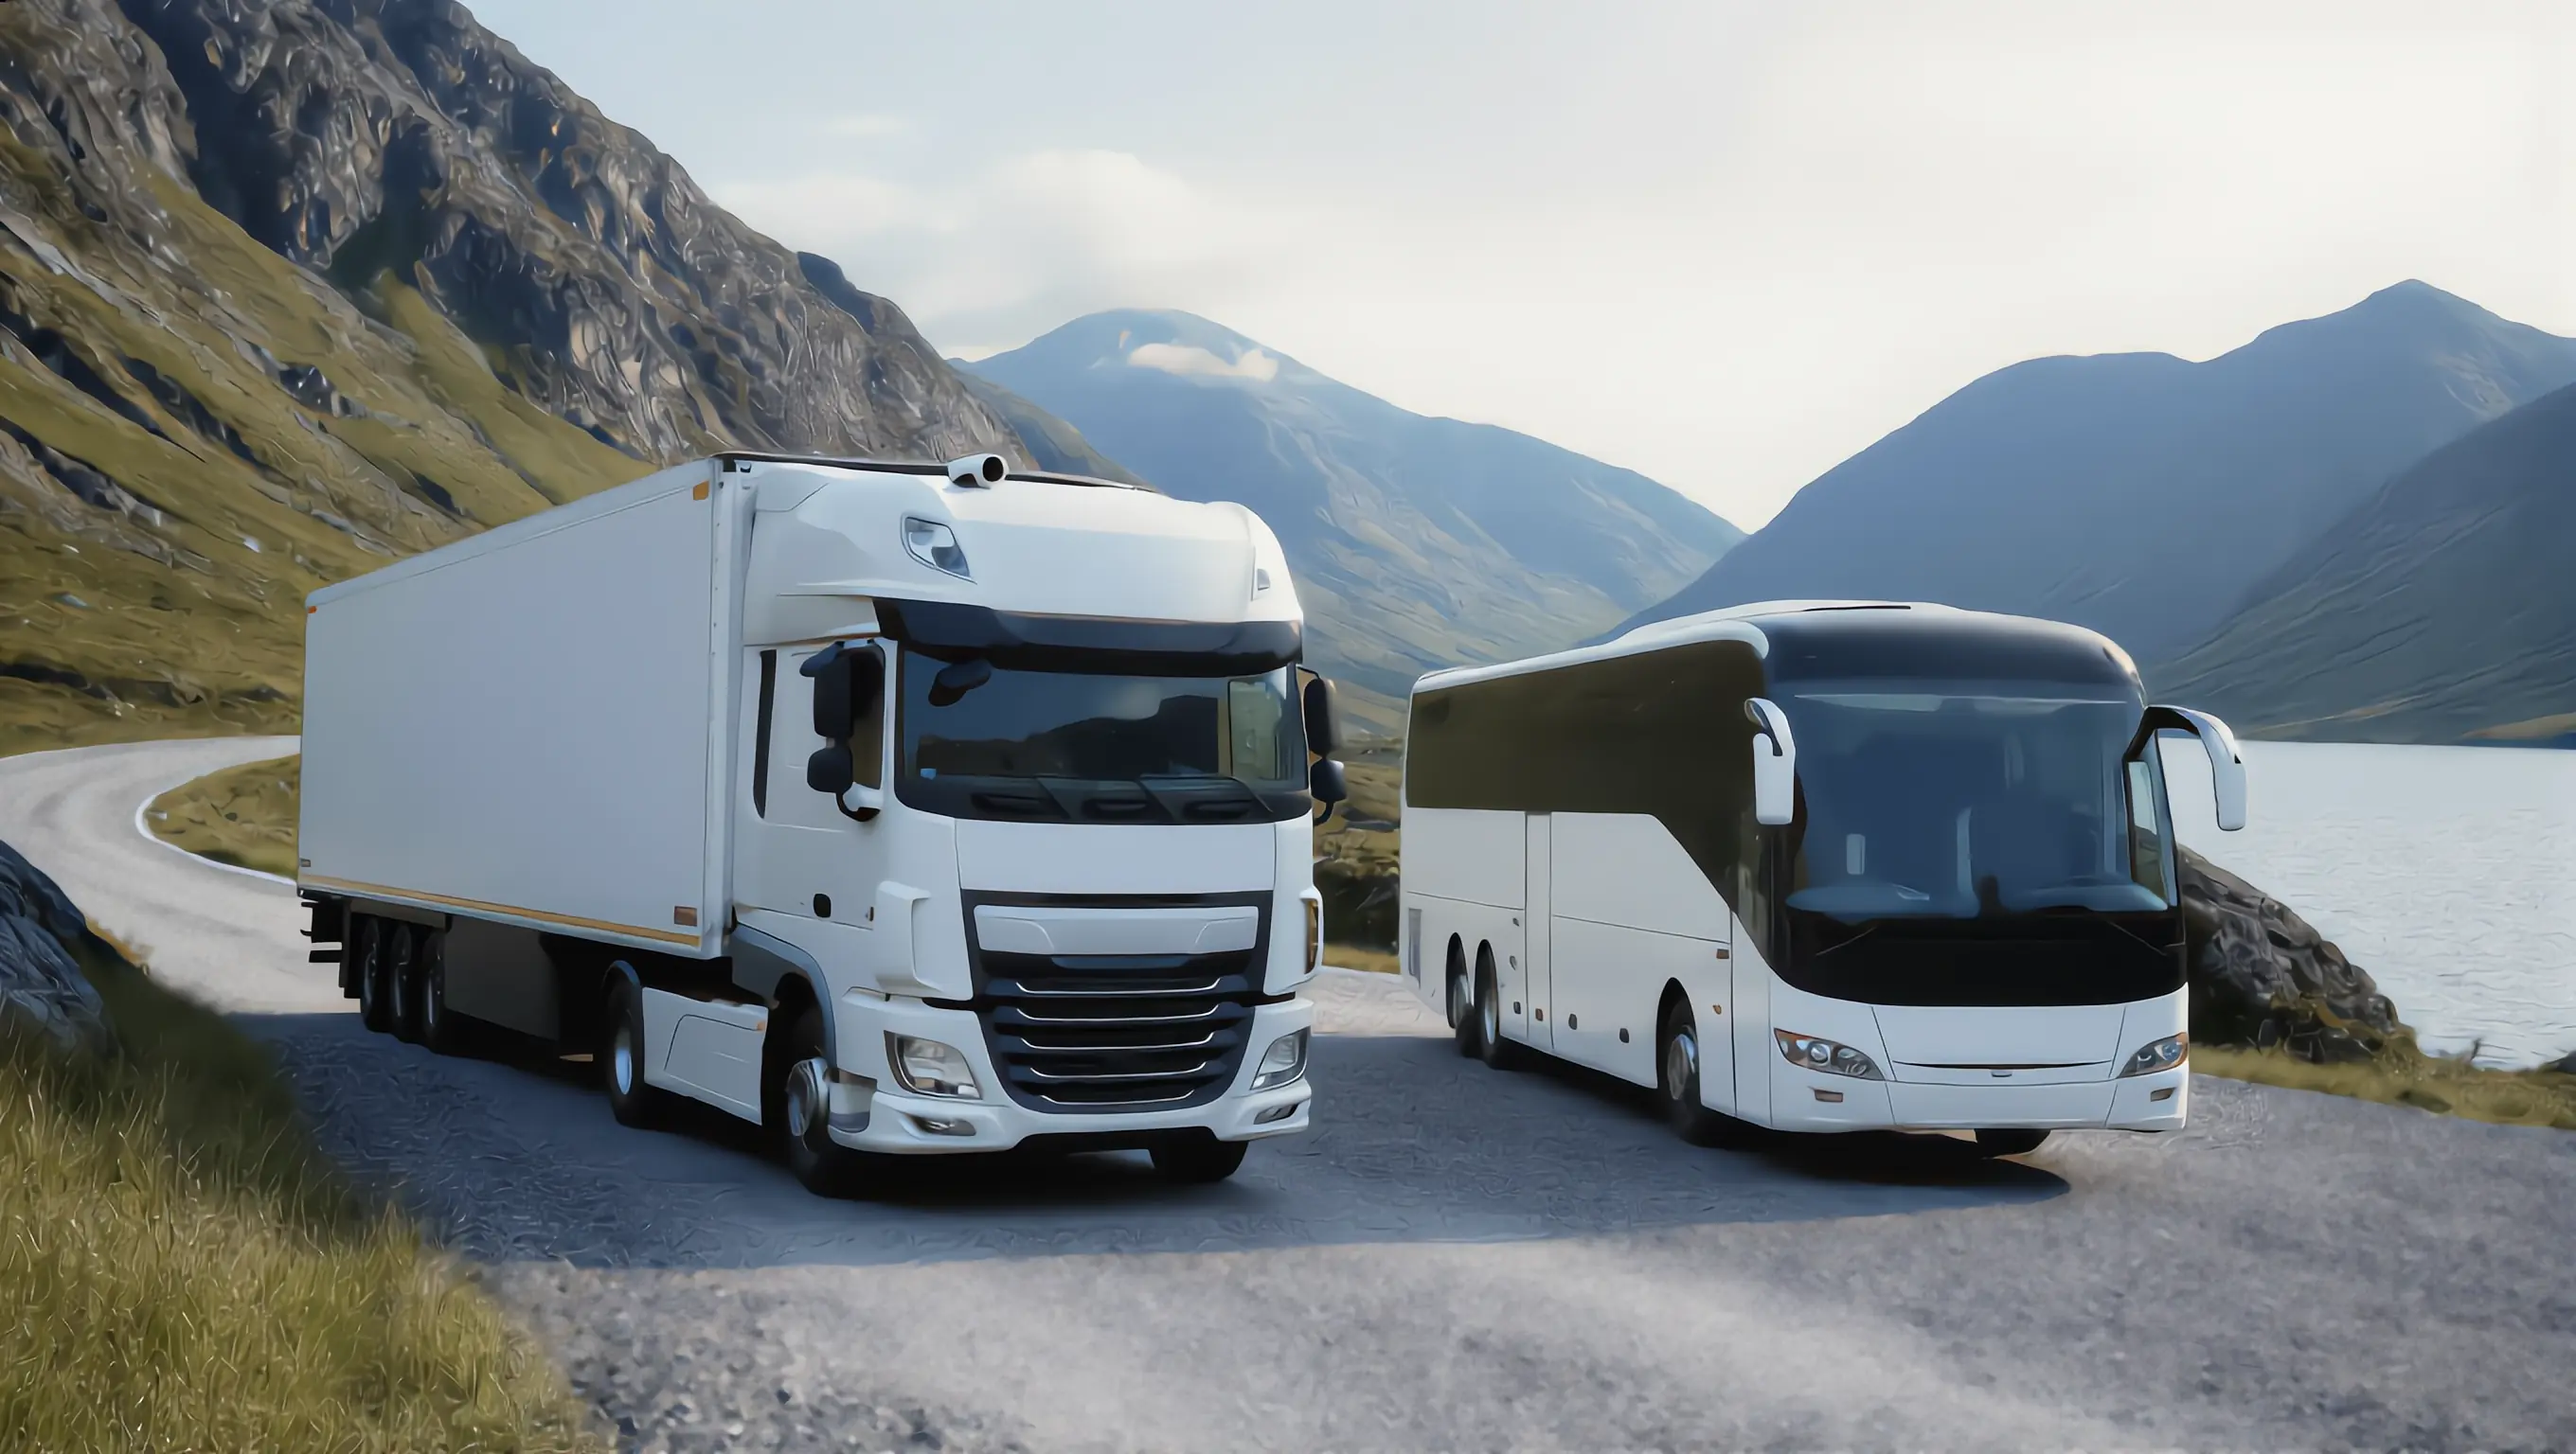
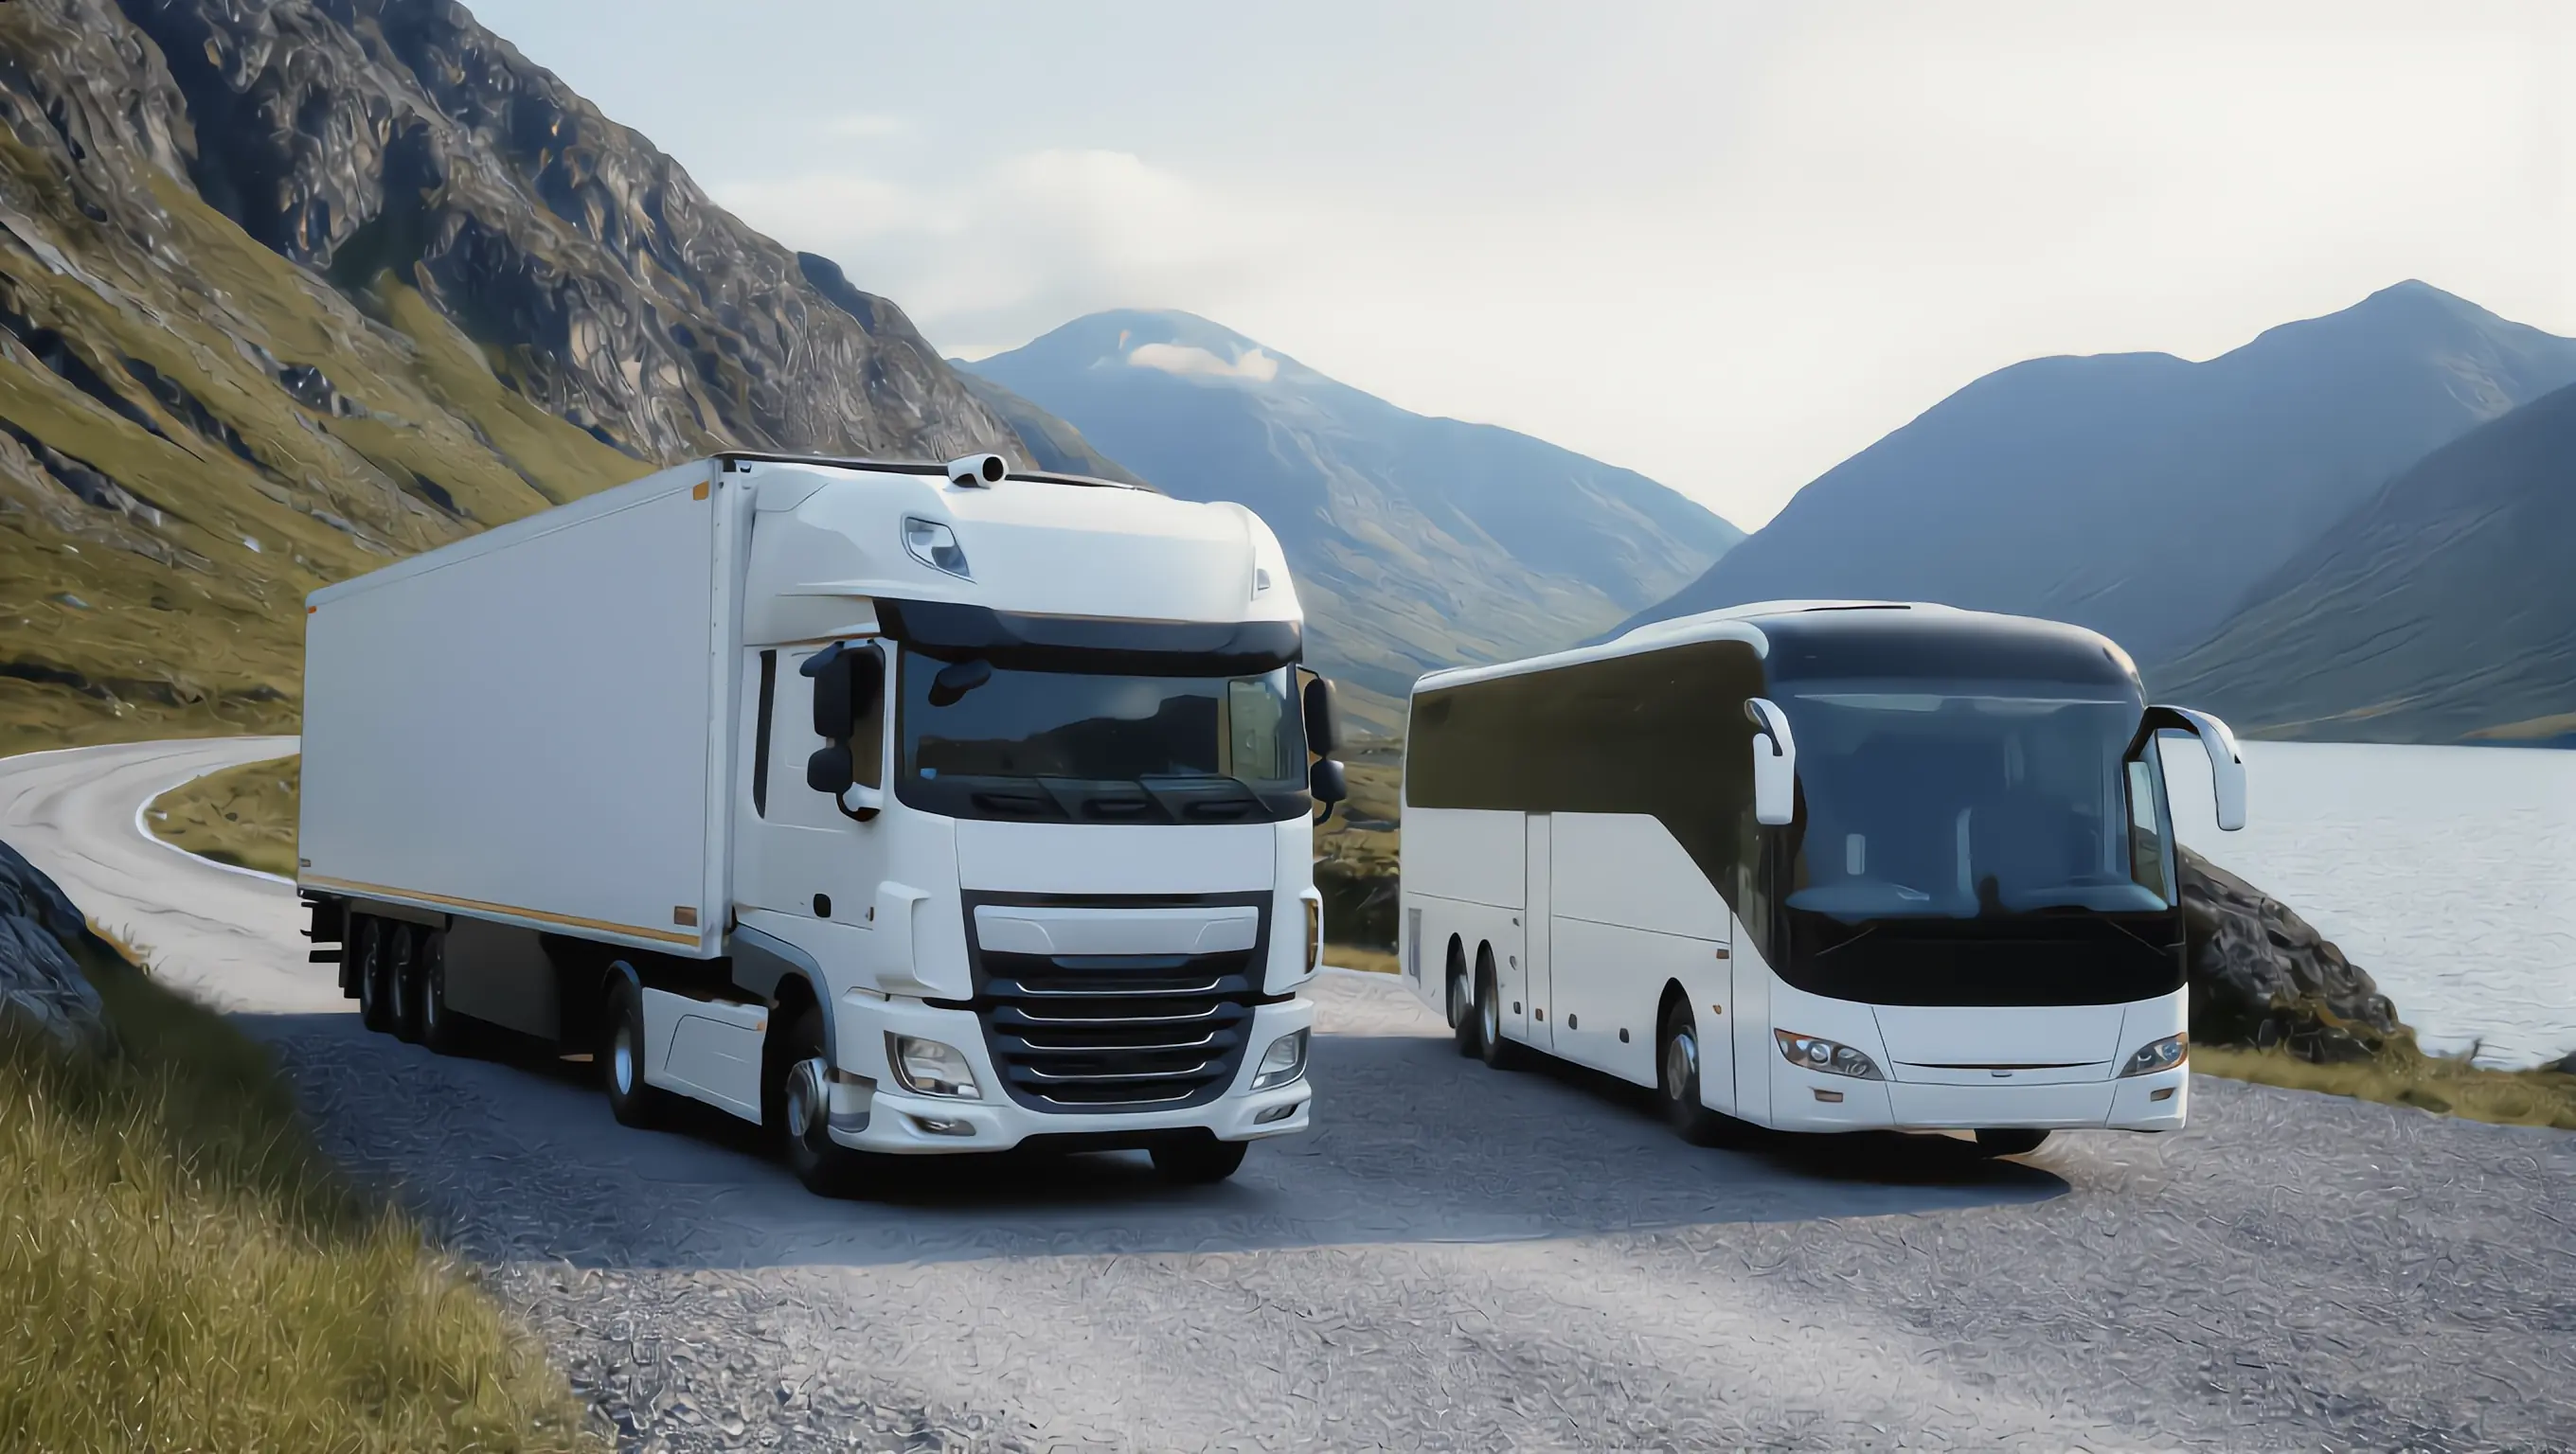
Revert the road texture filter on /choose/
The median filter + grain looked blurred and low quality on screen, so the
layer images are back to the previous version (pixel-identical to 6c02a9c).
build-layers.sh keeps the road step behind ROAD_FIX=1 for experiments; by
default it rebuilds the previous images and uses intro-photo.png directly,
so the duplicate intro-photo-updated.png is removed.

Claude-Session: https://claude.ai/code/session_01QnLGxmMJTS6H4BxBkXsJMw

Changed region(s): [[0.1875, 0.875, 0.4062, 1.0], [0.9375, 0.9688, 0.9688, 1.0], [0.875, 0.9375, 0.9062, 0.9688]]

diff --git a/CLAUDE.md b/CLAUDE.md
@@ -89,8 +89,10 @@
   1) все слои — из ОДНОГО кадра `intro-photo.png` (ИИ перерисовывает мелкую текстуру на каждом фото, и при смене
      слоёв кадр «кипел»): в слоях «только фура/автобус» заменена лишь область убранной машины с тенью,
      в слоях с фарами добавлены только фары и свет на дороге;
-  2) дорога на всех слоях одинаково очищена от «мазков» ИИ-увеличения (медианный фильтр + мелкое зерно
-     с фиксированным `-seed`), машины не трогаются. Вне зон машин все слои совпадают до пикселя.
+  2) обработка дороги против «мазков» ИИ-увеличения (медианный фильтр + зерно) ВЫКЛЮЧЕНА: на экране выглядело
+     замыленно и дёшево — владелец попросил вернуть. Включается `ROAD_FIX=1` только для экспериментов.
+     Убрать мазки по-настоящему можно только новым рендером/апскейлом без артефактов, не фильтрами.
+  Вне зон машин все слои совпадают до пикселя.
   Поменяли фото — поправьте в скрипте области (`box`, `lit`, контур дороги, рамки машин) и запустите заново.
 - Смена слоёв без мерцания: нижний слой `choose-both` всегда непрозрачный, новый слой проявляется ПОВЕРХ текущего,
   и только потом слои под ним мгновенно прячутся (`showScene` в `choose.js`). Наверх поднимается только полностью
